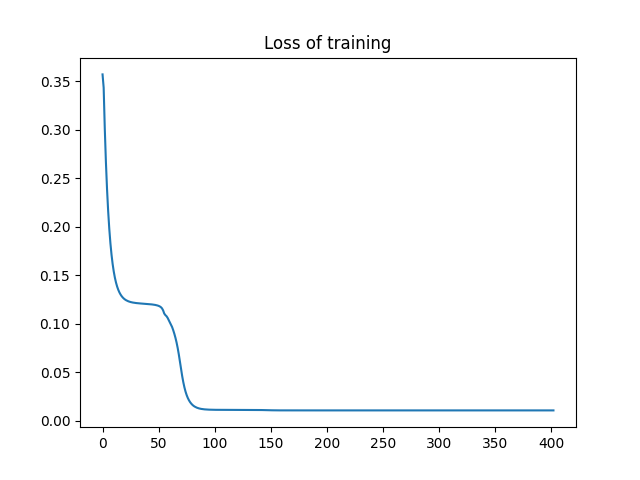
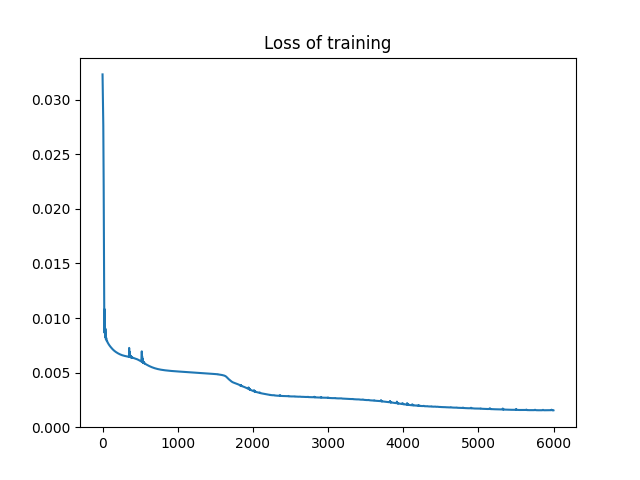
Add files via upload

diff --git a/main.py b/main.py
@@ -11,6 +11,7 @@ import numpy as np
 import matplotlib.pyplot as plt
 import pandas
 from sklearn.preprocessing import MinMaxScaler
+from torch.autograd import Variable
 
 ## 2 - Load and preprocess the Data :
 # load data :
@@ -18,112 +19,132 @@ dataset = pandas.read_csv('airline-passengers.csv', usecols=[1], engine='python'
 # la convetir en numpy array et de type float32
 dataset = np.array(dataset).astype(np.float32)
 # Noramalisation des donnees : parce que le nombre des passagers du premier mois est trop faible par rapport aux mois recents
-scaler = MinMaxScaler(feature_range=(-1, 1))
+scaler = MinMaxScaler(feature_range=(0, 1))
 dataset = scaler.fit_transform(dataset.reshape(-1, 1))
 # affichage de la taille des donnees : 
-print("taille = ", len(dataset)) # 144 observations ou chaque observation = nbre de passengers pendant un mois t 
+print("taille = ", dataset.shape) # 144 observations ou chaque observation = nbre de passengers pendant un mois t 
 # affichage de la courbe des donnees
 plt.plot(dataset)
 plt.show()
 
+
+## 3 - Preparation des donnees :
+# Remarque : J'ai essaye en prenant qu'un valeur a l'instant (t-1) pour predire le nombre des passagers a l'instant (t)
+# Mais ceci donne des resultats faible
+# Je vais essayer de prendre les quatres donnees precedantes pour predire ce qui suuit:
+def sliding_Window(data, seq_length):
+    x = []
+    y = []
+    for i in range(len(data)-seq_length):
+        x_seq = data[i:i+seq_length] # prendre les 4 donnees pour predire celle de la 5 ieme
+        y_seq = data[i+seq_length]
+        x.append(x_seq)
+        y.append(y_seq)
+    return x, y
+
+seq_length = 4
+x, y = sliding_Window(dataset, seq_length)
+x = np.array(x)
+y = np.array(y)
+print("Data preparation :")
+print("X size : ", x.shape) # (140, 4, 1)
+print("Y size : ", y.shape) # (140, 1)
+
+
 ## 3 - Definition du modele de classification :
 class LSTMModel(nn.Module):
-    def __init__(self, n_hidden=80):
+    def  __init__(self, num_classes, input_size, hidden_size, num_layers):
         super(LSTMModel, self).__init__()
-        self.n_hidden = n_hidden
-        self.lstm1 = nn.LSTMCell(1, self.n_hidden)
-        self.lstm2 = nn.LSTMCell(self.n_hidden, self.n_hidden)
-        self.linear = nn.Linear(self.n_hidden, 1)
-    
-    def forward(self, input, future=0):
-        n_samples = 1
 
-        outputs = []
-        
-        h_t1 = torch.zeros(1, self.n_hidden, dtype=torch.float32)
-        c_t1 = torch.zeros(1, self.n_hidden, dtype=torch.float32)
+        self.num_classes = num_classes
+        self.input_size = input_size
+        self.hidden_size = hidden_size
+        self.num_layers = num_layers
+        # input_size = The number of expected features in the input x
+        # num_layers = 2 veut dire placer deux LSTM l'un apres l'autre
+        self.lstm = nn.LSTM(input_size=self.input_size, hidden_size=self.hidden_size, num_layers=self.num_layers, batch_first=True)
+        self.fc = nn.Linear(self.hidden_size, self.num_classes)
 
-        h_t2 = torch.zeros(1, self.n_hidden, dtype=torch.float32)
-        c_t2 = torch.zeros(1, self.n_hidden, dtype=torch.float32)
+    def forward(self, x):
+        h_0 = Variable(torch.zeros(self.num_layers, x.size(0), self.hidden_size))
+        c_0 = Variable(torch.zeros(self.num_layers, x.size(0), self.hidden_size))
+        # print(x.shape) = 114, 4, 1
+        _, (out, _) = self.lstm(x, (h_0, c_0))
+        out = out.view(-1, self.hidden_size)
+        out = self.fc(out)
 
-        # forward sur chaque observations de l'entrainement
-        for input_t in input.split(1, dim=0):
-            h_t1, c_t1 = self.lstm1(input_t , (h_t1, c_t1))
-            h_t2, c_t2 = self.lstm2(h_t1, (h_t2, c_t2))
-            output = self.linear(h_t2)
-            outputs += [output]
-
-        # pour le cas de prediction
-        for i in range(future):
-            h_t1, c_t1 = self.lstm1(output , (h_t1, c_t1))
-            h_t2, c_t2 = self.lstm2(h_t1, (h_t2, c_t2))
-            output = self.linear(h_t2)
-            outputs += [output]
-
-        # convertir outputs en un tenseur
-        outputs = torch.cat(outputs, dim=1)
-
-        return outputs
+        return out
 
 if __name__ == "__main__":
     ## 4 - split into train and test data : 80 % pour l'entrainement et 20 % pour la prediction
     train_size = int(len(dataset)*0.8)
     # ensemble d'entrainement :
-    train_x = dataset[:train_size-1] # correspond a l'intant t-1
-    train_y = dataset[1:train_size] # correspond a l'instant t
+    train_x = x[:train_size-1] # correspond a l'intant t-1
+    train_y = y[1:train_size] # correspond a l'instant t
     # ensemble de test :
-    test_x = dataset[train_size:len(dataset)-1]
-    test_y = dataset[train_size+1:len(dataset)]
+    test_x = x[train_size:len(dataset)-1]
+    test_y = y[train_size:len(dataset)]
     # Conversion en des tenseurs :
     train_x = torch.from_numpy(train_x)
     train_y = torch.from_numpy(train_y)
     test_x = torch.from_numpy(test_x)
     test_y = torch.from_numpy(test_y)
+
+    # Hyperparamters :
+    learning_rate  = 0.02;
+    nbr_epochs = 6000;
+    input_size = 1
+    hidden_size = 2
+    num_layers = 1
+    num_classes = 1
+
     ## 5 - Defintion du modele :
-    modele = LSTMModel()
+    modele = LSTMModel(num_classes, input_size, hidden_size, num_layers)
 
     ## 6 - Defintion du loss et d'optimiseur :
-    # Hyperparamters :
-    learning_rate  = 0.01;
-    nbr_epochs = 200;
-
     criterion = nn.MSELoss()
-    optimizer = optim.LBFGS(modele.parameters(), lr=learning_rate)
+    optimizer = optim.Adam(modele.parameters(), lr=learning_rate)
 
     ## 7 - Entrainement du modele :
     losses = []
     for i in range(nbr_epochs):
         
-        def closure():
-            optimizer.zero_grad() # on vide le gradient de l'optimiseur
-            out = modele(train_x)
-            loss = criterion(out, train_y)
-            loss.backward() # backward pour calculer le graduit
-            losses.append(loss.item())
-            if (i%20) == 0:
-                print("Epoch : ", i+1)
-                print("Loss = ", loss.item())
+        optimizer.zero_grad() # on vide le gradient de l'optimiseur
+        # print(train_x.shape) = torch.Size([114, 4, 1])
+        out = modele(train_x)
+        loss = criterion(out, train_y)
+        loss.backward() # backward pour calculer le graduit
+        losses.append(loss.item())
+        
+        optimizer.step()
 
-            return loss
-        optimizer.step(closure)
+        if (i%100) == 0:
+            print("Epoch : ", i+1)
+            print("Loss = ", loss.item())
 
         
-        # Affichage de la courbe d'entrainement :
+    # Affichage de la courbe d'entrainement :
     plt.title("Loss of training")
     plt.plot(losses)
     plt.show()
+
     ## 8 - Evaluation du modele :
     with torch.no_grad():
-        pred = modele(test_x)
-        loss = criterion(pred, test_y)
-        print("Test Loss : ", loss.item())
+        out = modele(test_x)
+        loss = criterion(out, test_y)
+        print("Test Loss = ", loss.item())
 
-## 9 - Prediction des 24 mois qui suivent :
-with torch.no_grad():
-    y = torch.from_numpy(dataset)
-    y_test = modele(y, future=24)
-pred = y_test.detach().numpy()
-pred = pred.reshape(-1, 1)
-print(y_test.shape)
-plt.plot(pred, color='r')
+## Affichage de la prediction sur la data toute entiere :
+x = torch.from_numpy(x)
+all_predict = modele(x)
+all_predict = all_predict.data.numpy()
+# Enlever la normalisation
+all_predict = scaler.inverse_transform(all_predict)
+y = scaler.inverse_transform(y)
+# Tracer la ligne qui divise train set et test set:
+plt.axvline(x=train_size, c='r', linestyle='--')
+# Tracer les courbe x et y:
+plt.plot(y)
+plt.plot(all_predict)
+plt.suptitle('Prediction :')
 plt.show()
